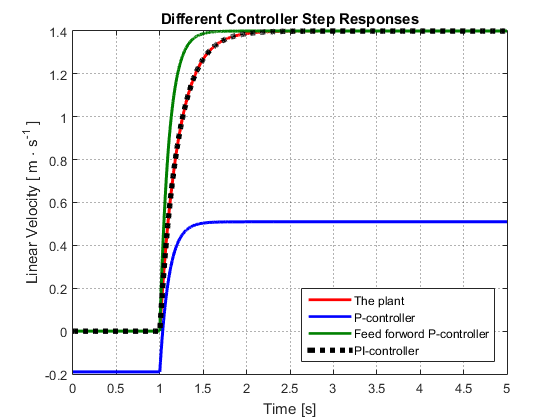
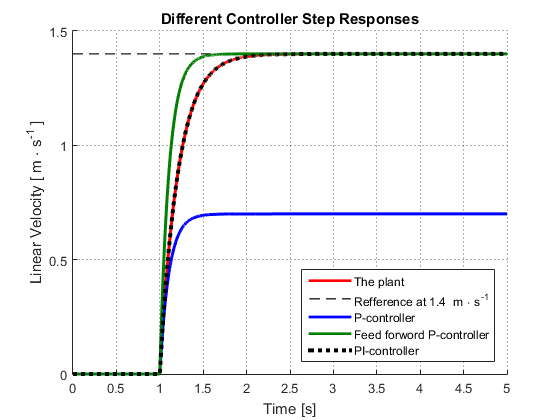
Almost finnished the Velocity Controller section

diff --git a/Chapters/Chapter4/VelocityController.tex b/Chapters/Chapter4/VelocityController.tex
@@ -55,7 +55,7 @@ If the \si{K_p} value again is selected to cancel out the system gain, allowing 
 %
 If this is compared to the resulting closed loop transfer function for the original P-controller, \eqref{eq:PclosedLoop}, it is immediately obvious that the gain-problem has been solved. Notice that the time constant of the closed loop remains half of that of the plant. So by using the forward feed to place the set-point of the controller, P-control suddenly becomes a viable option for controlling the velocity. This is tested on the vehicle and the response is as expected as seen in \appref{app:proportionalControllerTest}.
 
-If however the P-controller with feed forward is tested with an added disturbance, for instance a adding friction when breaking, the forward feed no longer compensates. The set-point compensation origins at the input of the controller, so when a disturbance is imposes on the system, the gain of the plant suddenly changes, and this cannot be accounted for with this feed forward P-controller. The effect is demonstrated in \figref{feedForwardHillOffset}, where the controller was tested on a hill.
+If however the P-controller with feed forward is tested with an added disturbance, for instance a adding friction when breaking, the forward feed no longer compensates. The set-point compensation origins at the input of the controller, so when a disturbance is imposes on the system, the gain of the plant suddenly changes, and this cannot be accounted for with this feed forward P-controller. The effect is demonstrated in \figref{feedForwardHillOffset}\todo{make this test, and insert picture}, where the controller was tested on a hill.
 %
 \subsection{PI-Controller}
 To attack the new offset-problem caused by changes in the system gain when disturbances enter the system, a proportional integral controller is the next natural choice. The reason for choosing a PI-controller is because the I-component integrates over the error. This component therefore increases or decreases over time, and so has an adaptive effect on the system. The design is outlined in \figref{proportionalIntegratorController}
@@ -80,41 +80,57 @@ Where \si{T_i} is the time constant of the integrator. Now if the time constant 
   \si{\frac{V_{out} }{V_{ref}} = \frac{K_p \cdot \frac{K}{\tau \cdot s}}{1 + K_p \cdot \frac{K}{\tau \cdot s} }}&\nonumber
 \end{flalign}
 %
-This is equivalent to the closed loop transfer function for the P-controller, see \eqref{eq:PclosedLoopTfs}, which means that the gain \si{K_p} again can be scaled directly to cancel out the gain of the plant, so again \si{K_p = \frac{1}{K}}.
+Inserting \si{K_p = \frac{1}{K}}, yields the following:
+%
+\begin{flalign}
+  \eq{\frac{V_{out} }{V_{ref}}}{\frac{\frac{1}{K} \cdot \frac{K}{\tau \cdot s}}{1 + \frac{1}{K} \cdot \frac{K}{\tau \cdot s} }} \ \ \Leftrightarrow  \ \  \si{\frac{V_{out} }{V_{ref}} = \frac{\frac{1}{\tau \cdot s}}{1 + \frac{1}{\tau \cdot s} }} \ \ \Leftrightarrow  \ \  \si{\frac{V_{out} }{V_{ref}} = \frac{1}{\tau \cdot s + 1}}&\nonumber
+\end{flalign}
+%
+This is equivalent to the plant but with a gain of 1 instead of K, which is desirable, and so also the reason for inserting \si{K_p = \frac{1}{K}}.
 Now to determine \si{K_i}, the original equation for a PI-controller is evaluated:
 %
 \begin{flalign}
   \si{K_p + K_i\cdot \frac{1}{s}} &= \si{K_p\cdot(1+ \frac{1}{T_i\cdot s}) \ \ \Rightarrow \ \ K_i\cdot \frac{1}{s} = \frac{K_p}{T_i\cdot s} \ \ \Rightarrow \ \ K_i = \frac{K_P}{T_i} \ \ \Rightarrow \ \ K_i = \frac{K_p}{\tau}}&\nonumber
 \end{flalign}
 %
+This concludes the PI-controller design.\todo{insert numbers maybe? Also write more in the "tail"}
 
-
-
-
+\subsection{Comparison of the Controllers}
+On \figref{fig:ControllerSteps} the different controller designs are simulated being subjected to a velocity step. For comparison the plant is subjected to a voltage step calculated from a velocity and the gain of the plant.
+%
 \begin{figure}[H]
  	\centering
- 	\includegraphics[scale=0.4]{figures/ControllerSteps}
+ 	\includegraphics[width=\textwidth]{figures/ControllerSteps}
  	\caption{Diagram of the proportional controller}
  	\label{fig:ControllerSteps}
  \end{figure}
+%
+The first thing to notice on \figref{fig:ControllerSteps}, is the inadequacy of the P-controller, given by its steady state error. The feed forward P-controller however, solving this problem, seems like a very good solution if consulting only its step response. As discussed, a problem arises when introducing a disturbance, as seen in \figref{feedForwardHillOffset}. The last discussed option is the PI-controller, which places itself right on top of the step response of the plant when having a gain of 1, which is by design. The difference between the plant with a scaled input to obtain a gain of 1, compared to the PI-controller lies in the feedback along with the adaptive gain emerging from the I-component. This becomes clear when investigating the open loop rather than the closed loop transfer function:
+%
+\begin{flalign}
+  V_{error}(s) \cdot \frac{(K_p \cdot \frac{K_i}{s}) \cdot K}{\tau \cdot s + 1}
+  \left.\rule{0cm}{1cm}\right\vert\rule{0cm}{.7cm}_{\substack{K_p = \frac{1}{K} \\ \rule{0cm}{.1cm}\\ K_i = \frac{K_p}{\tau}}}
+  &\ \ \Rightarrow \ \
+  V_{error}(s) \cdot \frac{1}{\tau \cdot s}
+  \ \ \xRightarrow{\mathcal{L^{\si{-1}}}} \ \
+  \frac{1}{\tau} \cdot \int_{0}^{t} V_{error}(\tau_i) \ d \tau_i &\nonumber
+\end{flalign}
+%
+\hspace{6mm} Where:\\
+\begin{tabular}{p{1cm}lll}
+  & \si{\tau_i}    & is an integration variable&\\
+  & \si{V_{error}} & is the error from \si{V_{ref}-V_{out}}, see \figref{proportionalIntegratorController}&
+\end{tabular}
 
+This shows how the integral component of the controller integrates over the error from the reference to the output over time.
+
+On \figref{fig:PIcontrollerStepRealVsSim} a step response of an implemented PI-controller is shown in comparison with the simulated step response with PI-controller.
+%
 \begin{figure}[H]
  	\centering
- 	\includegraphics[scale=0.4]{figures/PIcontrollerStepRealVsSim}
+ 	\includegraphics[width=\textwidth]{figures/PIcontrollerStepRealVsSim}
  	\caption{Diagram of the proportional controller}
  	\label{fig:PIcontrollerStepRealVsSim}
- \end{figure}
-
-
-
-
-% Comparing step-response, P-controller and P-controller with feed-forward.
-
- 
-  
- 
-% Results:
-% Overshoot
-
-% Conclusion: 
-% That we need more than a P-controller, because of the overshoot. 
+\end{figure}
+%
+The difference between the two responses at the bottom of the graph might be partially due to the fact that the vehicle is a \si{2^{nd}} order system. The approximation to a \si{1^{st}} order model is however not to be discarded. The design still delivers a response relatively close to the simulation, and as seen from \chapref{cha:AcceptTest}, the PI-controller fulfills the requirements set for the system's velocity controller.

diff --git a/Chapters/Chapter6/aControlOfTheVehicle.tex b/Chapters/Chapter6/aControlOfTheVehicle.tex
@@ -1,1 +1,2 @@
 \chapter{Control of the Vehicle}\label{cha:ControlOfTheVehicle}
+\todo{write a top to this chapter}
